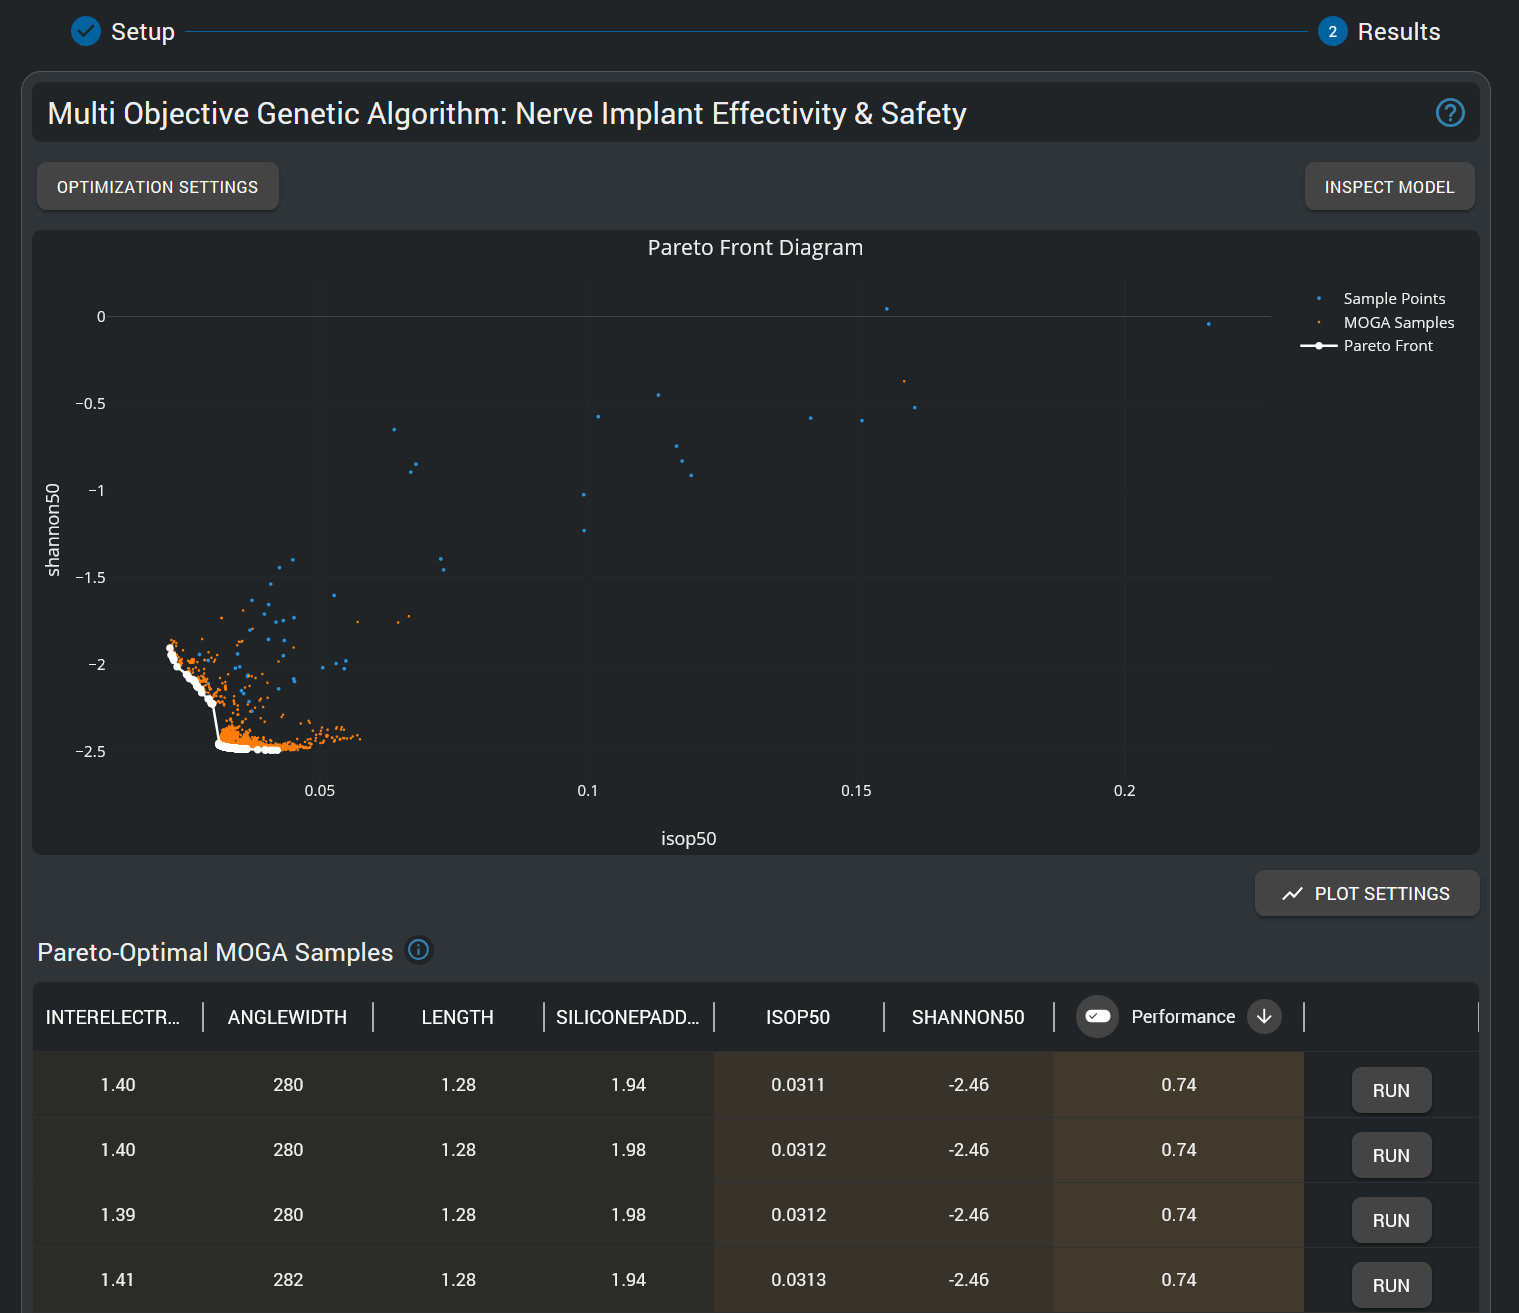
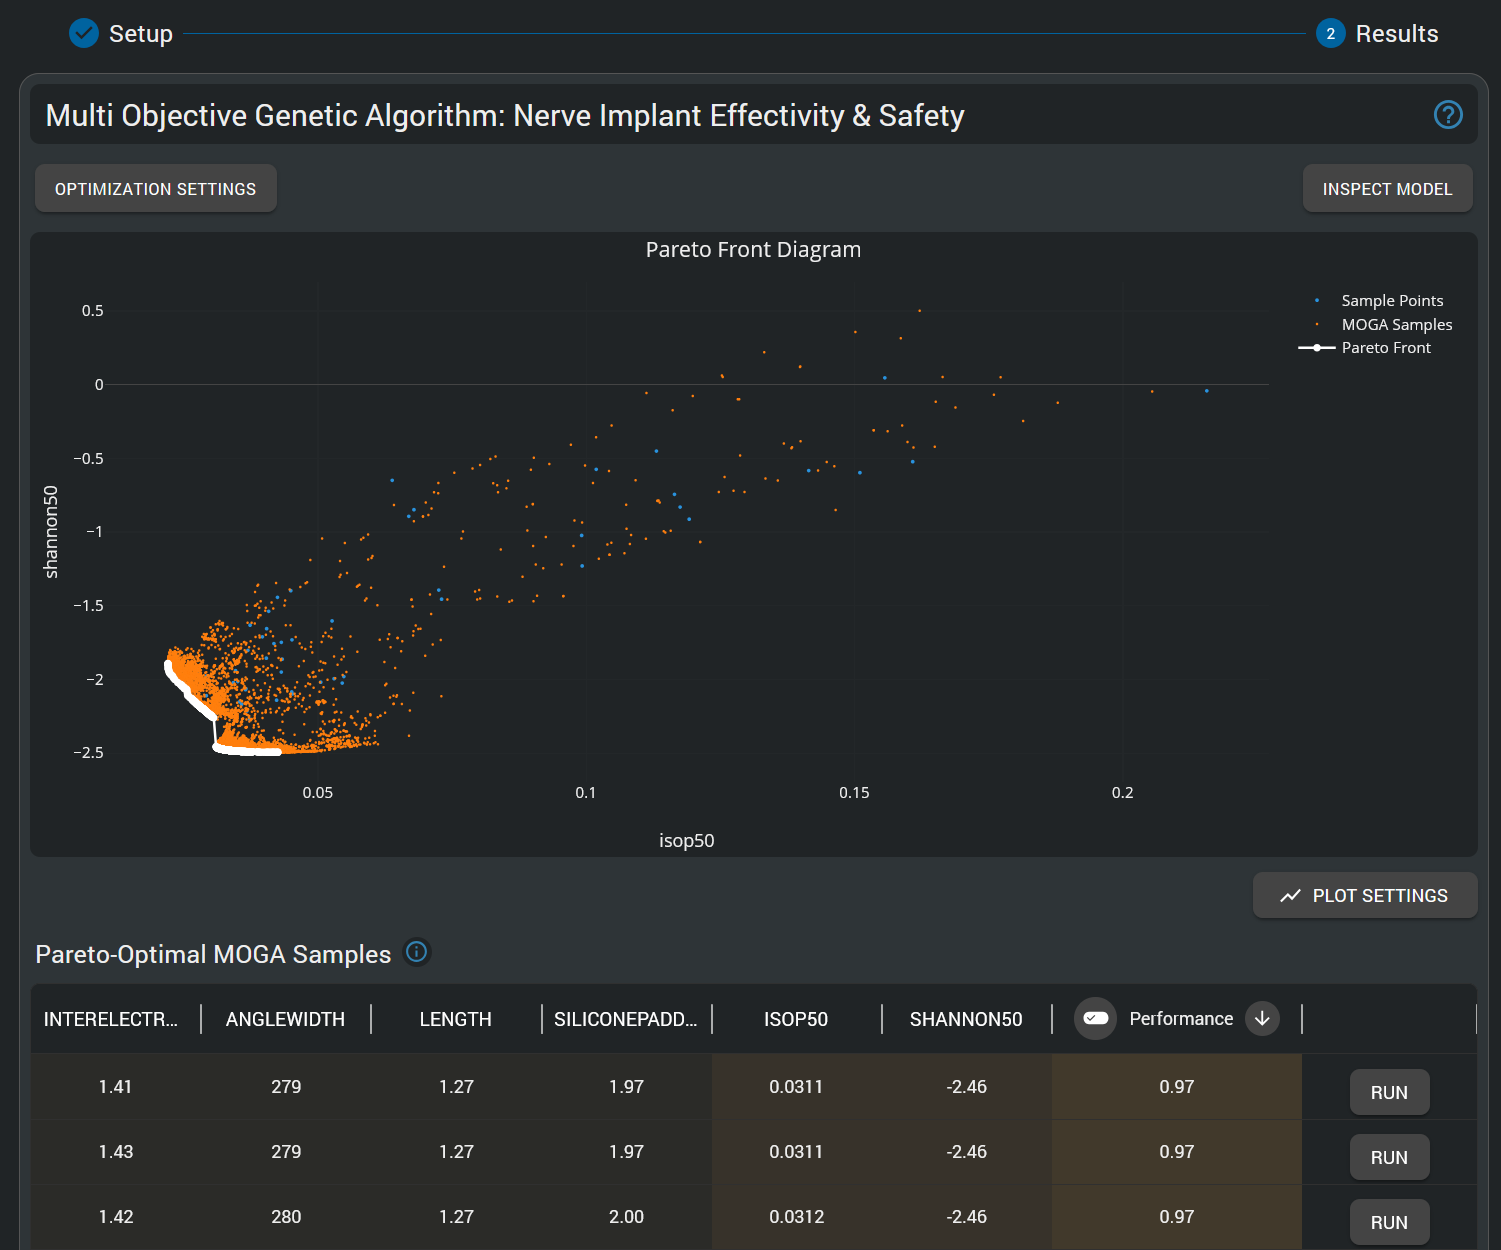
[DOCS] improvement MOGA materials

diff --git a/docs/manual/multi-objective-genetic-algorithm.md b/docs/manual/multi-objective-genetic-algorithm.md
@@ -24,7 +24,7 @@ The cornerstone of multi-objective optimization is the concept of Pareto optimal
 ![MOGA Pareto Front](../assets/MetaModeling_figures/MOGA/MOGA_ParetoFront.png)
 *Pareto frontier visualization showing optimal tradeoffs between competing objectives. Each point represents a different optimal design configuration where no objective can be improved without degrading another. The frontier shape reveals the fundamental tradeoff relationships between objectives.*
 
-### Pareto Frontier Interpretation
+### Pareto Frontier Exploration
 
 **Design Space Insights**
 - **Linear Frontier**: Indicates proportional tradeoffs between objectives
@@ -34,56 +34,48 @@ The cornerstone of multi-objective optimization is the concept of Pareto optimal
 - **Dominated Solutions**: Points below/behind the frontier representing suboptimal designs
 - **Infeasible Regions**: Areas where no solutions exist due to physical or practical constraints
 
-### Interactive Frontier Exploration
 
 **Point Selection and Analysis**
-- **Click any point** on the Pareto frontier to view corresponding parameter values
-- **Hover analysis** reveals objective values and design coordinates for each solution
+- **Hover analysis** reveals objective values for each solution
 - **Solution ranking** enables comparison of multiple candidate designs
+- **Hover solution** on the table to highlight corresponding point on the frontier
 
-**Objective Space Navigation**
-- **Zoom functionality** for detailed examination of specific frontier regions
-- **Axis scaling** to emphasize particular objective ranges or relationships
-- **Multi-frontier comparison** when analyzing different scenarios or constraints
+**Weighted Solution Ranking**
+
+![MOGA Pareto Front with Weights](../assets/MetaModeling_figures/MOGA/MOGA_ParetoFront_Weights.png)
+*The MOGA Modeling Intelligence HyperTool integrates solution ranking according to user-defined weights, enabling interactive exploration of tradeoffs. Each entry in the table corresponds to a Pareto optimal solution on the frontier, providing complete parameter specifications for direct implementation. Moreover, the Run button allows users to execute simulations for selected Pareto solutions, facilitating validation and further analysis of optimal designs.*
+
+- **Priority-based sorting** enables systematic evaluation of Pareto solutions based on different objective weightings
+- **Parameter transparency** provides complete design specifications for each ranked solution
+- **Quantitative comparison** facilitates data-driven selection between competing optimal designs
+- **Implementation readiness** delivers parameter values ready for direct design implementation
+
+**Plot Settings**
+- **Axis Scaling**: Linear or logarithmic scaling for each objective
+- **Dimensionality Type**: 1D, 2D, or 3D objective space visualization
+- **Axis Selection**: Choose which objectives to display on each axis
+
 
 ## Genetic Algorithm Configuration
 
 ### Algorithm Parameters
 
-
-
 ![MOGA Optimization Settings](../assets/MetaModeling_figures/MOGA/MOGA_Optimization_Settings.png)
-*Multi-objective optimization configuration showing objective selection, optimization direction, and algorithm parameters*
-
-<!-- **Objective Selection**
-- **Available Outputs**: Choose from function outputs (QoIs) to serve as objectives
-- **Optimization Direction**: Specify minimize or maximize for each objective
-- **Objective Weights**: Optional relative importance factors (if using weighted approaches)
-- **Constraint Objectives**: Define objectives that serve as constraints rather than optimization targets
-
-**Algorithm Parameters**
-- **Population Size**: Number of candidate solutions in each generation (typically 50-200)
-- **Number of Generations**: Maximum evolutionary iterations (typically 50-200)
-- **Convergence Criteria**: Stopping conditions based on Pareto frontier stability
-- **Genetic Operators**: Crossover and mutation rates for evolutionary search
- -->
+*Multi-objective optimization configuration showing configurable optimization hyper-parameters*
 
 The MOGA implementation uses evolutionary algorithms to systematically search the design space and converge to the Pareto frontier. Key algorithmic parameters influence both solution quality and computational efficiency:
 
-**Population Settings**
-- **Population Size**: Number of candidate solutions evaluated in each generation (typically 50-200)
-- **Number of Generations**: Evolutionary iterations for convergence (typically 100-500)
-- **Elite Preservation**: Fraction of best solutions carried forward to next generation
+- **Population Size**: Number of candidate solutions in each generation (typically 50-200)
+- **Number of Iterations**: Maximum number of evolutionary generations performed by the genetic algorithm (typically 50-200)
+- **Fitness Type**: Methods for evaluating solution quality through generations.
+- **Replacement Strategy**: Options for how new generations replace previous ones
+- **Initial Seed**: Random (integer) seed for reproducibility of optimization runs
+- **Number of Seeds**: Multiple runs with different seeds for robustness assessment. Uses the initial seed as a base and increments by 1 for each run. Therefore, results are still reproducible by specifying the same initial seed and number of seeds; and increasing the number of seeds will yield additional runs with different seeds while keeping the previous ones identical.
 
-**Genetic Operators**
-- **Crossover Rate**: Probability of combining parent solutions (typically 0.8-0.95)
-- **Mutation Rate**: Probability of random parameter modification (typically 0.01-0.1)
-- **Selection Pressure**: Balance between exploration and exploitation
+For detailed guidance on the meaning of each of the options in the MOGA configuration, please use the built-in help tooltips available in the HyperTool interface by hovering over the information icons next to each parameter. Furthermore, the *Read More* links provide access to the documentation of the Dakota implementation of the MOGA algorithm, which underpins the Model Intelligence HyperTool.
 
-**Convergence Criteria**
-- **Frontier Stability**: Stop when Pareto frontier changes minimally between generations
-- **Hypervolume Indicator**: Measure of frontier quality and coverage
-- **Maximum Evaluations**: Computational budget constraint
+
+
 
 
 ### Common Multi-Objective Scenarios
@@ -98,104 +90,6 @@ The MOGA implementation uses evolutionary algorithms to systematically search th
 - **Efficacy vs. Safety**: Therapeutic effectiveness balanced against tissue damage risk
 - **Effectivity vs. Longevity**: Battery life optimization with therapeutic dose requirements
 - **Selectivity vs. Coverage**: Targeted stimulation balanced with broad therapeutic effect
-
-## Design Selection and Decision Support
-
-### Pareto Frontier Analysis for Engineering Decisions
-
-The Pareto frontier provides quantitative foundation for engineering decision-making by revealing the complete landscape of optimal tradeoffs. Different regions of the frontier correspond to different design philosophies and engineering priorities.
-
-**Design Philosophy Regions**
-- **Conservative Designs**: Emphasize safety, reliability, and risk minimization
-- **Performance-Oriented Designs**: Prioritize functional capabilities and effectiveness
-- **Balanced Designs**: Seek optimal compromise between competing requirements
-- **Application-Specific Designs**: Optimize for particular use cases or constraints
-
-**Decision Criteria**
-- **Regulatory Requirements**: Ensure selected designs meet safety and efficacy standards
-- **Clinical Priorities**: Align with medical objectives and patient needs
-- **Manufacturing Constraints**: Consider production feasibility and cost implications
-- **Market Positioning**: Account for competitive landscape and customer preferences
-
-### Multi-Criteria Decision Analysis
-
-**Analytical Hierarchy Process Integration**
-- **Stakeholder Preferences**: Incorporate input from different decision makers
-- **Weighted Scoring**: Apply importance weights to different objectives
-- **Sensitivity Analysis**: Assess robustness of decisions to preference changes
-- **Consensus Building**: Facilitate agreement among multiple stakeholders
-
-**Risk Assessment Integration**
-- **Uncertainty Quantification**: Assess parameter uncertainty effects on Pareto solutions
-- **Robustness Analysis**: Evaluate solution stability under varying conditions
-- **Failure Mode Analysis**: Consider potential failure mechanisms and their consequences
-- **Regulatory Compliance**: Ensure selected designs meet applicable standards
-
-## Validation and Implementation
-
-### Solution Verification
-
-Before implementing designs selected from the Pareto frontier, comprehensive validation ensures that the optimization results accurately represent the underlying system behavior.
-
-**Full Model Validation**
-- **High-Fidelity Simulation**: Verify Pareto solutions using original detailed models
-- **Physical Prototyping**: Validate selected designs through experimental testing
-- **Cross-Validation**: Compare MOGA results with alternative optimization approaches
-- **Sensitivity Testing**: Assess solution robustness to parameter variations
-
-**Implementation Planning**
-- **Manufacturability Assessment**: Evaluate production feasibility of selected designs
-- **Cost Analysis**: Quantify economic implications of different Pareto solutions
-- **Timeline Estimation**: Plan development schedule for selected design alternatives
-- **Risk Mitigation**: Develop contingency plans for potential implementation challenges
-
-### Quality Assurance Workflow
-
-**Optimization Verification**
-1. **Convergence Analysis**: Ensure genetic algorithm has reached stable Pareto frontier
-2. **Diversity Assessment**: Verify adequate coverage of the objective space
-3. **Dominance Testing**: Confirm all frontier points are truly non-dominated
-4. **Statistical Validation**: Use multiple optimization runs to assess solution consistency
-
-**Design Space Exploration**
-1. **Parameter Sensitivity**: Analyze how design variables influence objective tradeoffs
-2. **Constraint Activity**: Identify active constraints that limit the feasible region
-3. **Infeasibility Analysis**: Understand barriers preventing access to desired objective combinations
-4. **Scalability Assessment**: Evaluate how problem size affects optimization effectiveness
-
-## Advanced Applications
-
-### Hierarchical Multi-Objective Optimization
-
-For complex systems with multiple subsystems or design levels, hierarchical MOGA approaches enable systematic optimization across different scales and design phases.
-
-**System-Level Optimization**
-- **Top-Level Objectives**: Overall system performance metrics and requirements
-- **Subsystem Coordination**: Ensure compatibility between different subsystem optimizations
-- **Interface Management**: Optimize connections and interactions between subsystems
-- **Resource Allocation**: Distribute constraints and requirements across subsystems
-
-**Multi-Scale Optimization**
-- **Temporal Scales**: Balance short-term and long-term objectives
-- **Spatial Scales**: Coordinate local and global optimization requirements
-- **Abstraction Levels**: Integrate conceptual, detailed, and manufacturing design phases
-- **Lifecycle Considerations**: Account for design, manufacturing, operation, and disposal phases
-
-### Robust Multi-Objective Optimization
-
-When design parameters are subject to uncertainty or variability, robust MOGA approaches seek solutions that maintain good performance across a range of operating conditions.
-
-**Uncertainty Integration**
-- **Parameter Uncertainty**: Account for manufacturing tolerances and material variations
-- **Environmental Variability**: Consider operating condition changes and external factors
-- **Model Uncertainty**: Address limitations and approximations in simulation models
-- **Future Requirements**: Anticipate evolving specifications and regulatory changes
-
-**Robustness Metrics**
-- **Performance Stability**: Minimize objective variation under parameter uncertainty
-- **Feasibility Robustness**: Ensure constraint satisfaction across uncertainty ranges
-- **Pareto Frontier Stability**: Select solutions that remain optimal under uncertainty
-- **Worst-Case Performance**: Guarantee minimum acceptable performance levels
 
 ## Integration with Other Model Intelligence Tools
 

diff --git a/docs/tutorials/moga-tutorial.md b/docs/tutorials/moga-tutorial.md
@@ -78,6 +78,9 @@ The MOGA results are primarily visualized through the Pareto frontier plot, whic
 ![MOGA Pareto Front](../assets/MetaModeling_figures/MOGA/MOGA_ParetoFront.png)
 *The Pareto frontier visualization shows the optimal tradeoffs between competing objectives. Each point represents a different optimal design configuration. The frontier reveals that improvements in stimulation efficacy (lower isopercentile threshold) generally require accepting higher safety risks (higher Shannon criteria), demonstrating the fundamental tradeoff inherent in neural stimulation device design. Points along the frontier represent different engineering compromises - from highly conservative designs prioritizing safety to more aggressive designs prioritizing efficacy.*
 
+![MOGA Pareto Front with Weights](../assets/MetaModeling_figures/MOGA/MOGA_ParetoFront_Weights.png)
+*Pareto frontier with detailed solution ranking table showing Pareto optimal designs sorted by weighting criteria. The table displays the complete parameter configurations for each solution, including Inter-Electrode Spacing, Angle Width, Length, Width, and Silicone Padding values. The weighting system enables systematic comparison and selection of solutions based on different priority combinations between safety (Shannon criteria) and efficacy (isopercentile threshold) objectives. This quantitative ranking facilitates data-driven design selection for specific clinical requirements and regulatory constraints.*
+
 ### Interpreting the Results
 
 The Pareto frontier provides several critical insights:
@@ -95,6 +98,26 @@ From the Pareto frontier analysis, engineers can:
 2. **Select designs based on priorities** - choose points emphasizing safety, efficacy, or balanced performance
 3. **Understand design limits** - recognize theoretical bounds on achievable performance
 4. **Guide further optimization** - identify which parameters most strongly influence the tradeoffs
+
+### Comparison with Response Surface Modeling Results
+
+The MOGA optimization results can be directly compared with the optimal design identified through Response Surface Modeling analysis. The RSM tutorial identified a single optimal configuration:
+
+**RSM Optimal Design:**
+- Angle Width: 250º
+- Inter-Electrode Spacing: 1.5mm  
+- Length: 1mm
+- Silicone Padding: 1.5mm
+- Width: (fixed parameter in RSM analysis)
+
+**MOGA Pareto Optimal Solutions:**
+The weighted Pareto frontier table reveals multiple optimal configurations that offer different tradeoffs between safety and efficacy. The MOGA analysis includes electrode Width as an additional optimization parameter, providing a more comprehensive design space exploration. Notably, several MOGA solutions feature similar parameter ranges to the RSM optimum, but with systematic variations that explore the fundamental tradeoff space:
+
+- **Safety-prioritized solutions** typically feature more conservative electrode dimensions
+- **Efficacy-prioritized solutions** optimize for lower stimulation thresholds
+- **Balanced solutions** often align closely with the RSM single-objective optimum
+
+This comparison demonstrates how MOGA provides a comprehensive view of the design space that encompasses and extends beyond single-objective optimization results, revealing the complete landscape of optimal tradeoffs available to engineers.
 
 <!-- ### Design Parameter Analysis
 
